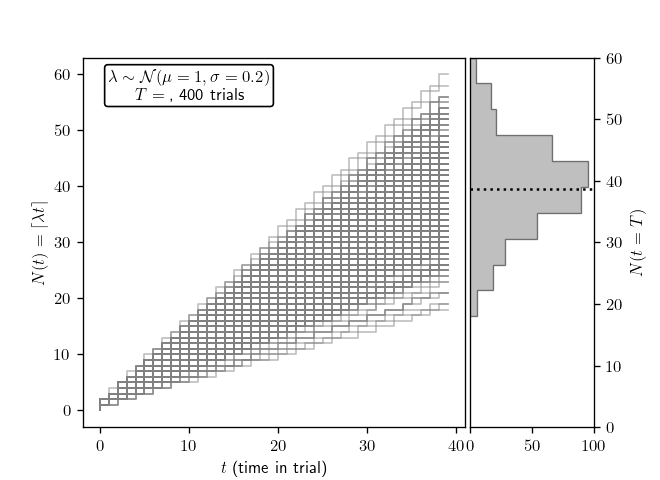
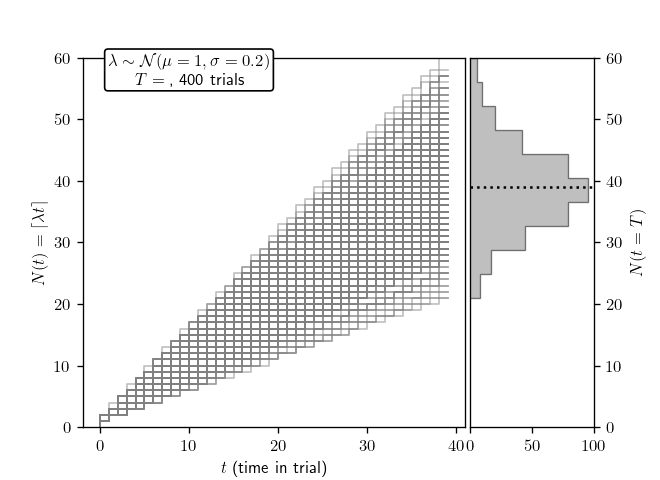
Merge branch 'master' of https://github.com/jealcalat/LeT
# Conflicts:
#	let.py

diff --git a/let.py b/let.py
@@ -13,7 +13,8 @@ import matplotlib.pyplot as plt
 import matplotlib.gridspec as gridspec
 from matplotlib import rc
 rc('text', usetex=True)
-rc('figure', figsize = (5.5, 4))
+rc('figure', figsize=(5.5, 4))
+rc('axes', ymargin=0)
 
 """
 Simulate N(t) = ceiling(lambda * t), with lambda normally distributed. In "Learning to time: a perspective", 
@@ -22,10 +23,16 @@ Appendix, they simulate two 'walks' with lambda = {0.8,1.2} sampled from N(1,0.2
 
 
 def n_t(t, mean, sd):
+    """
+    lambda admit just positive values
+    """
 
     lmbd = np.random.normal(mean, sd, 1)
     vec_time = np.arange(t)
     nt_iter = np.zeros(t)
+
+    while lmbd < 0:
+        lmbd = np.random.normal(mean, sd, 1)
 
     for j in vec_time:
         nt_iter[j] = np.ceil(lmbd*j)
@@ -47,6 +54,7 @@ for jj in np.arange(trials):
     Nt = n_t(t, mean, sd)
     trial_rf[jj] = Nt[-1]
     ax1.step(time,Nt, c = 'grey', lw = 1, alpha = 0.5)
+    ax1.scatter(time[-1], Nt[-1], c = 'black', s =  10, alpha = 0.5)
 
 ax1.text(10, np.max(trial_rf) - 2,
          r'$\lambda \sim \mathcal{{N}}(\mu = 1, \sigma = {{{}}})$'.format(sd) + "\n"
@@ -62,7 +70,7 @@ ax2.set_ylim(0,np.max(trial_rf))
 ax2.yaxis.set_label_position("right")
 ax2.axhline(y = np.mean(trial_rf), color = 'black', linestyle = ":")
 ax2.set_ylabel(r'$N(t = T)$')
-plt.savefig('nt_let.png', dpi = 120)
+#  plt.savefig('nt_let.png', dpi = 120)
 plt.show()
 
 

diff --git a/Readme.md b/Readme.md
@@ -2,6 +2,14 @@
 
 This is a work in progress
 
+This simulation uses Python 3.
+
+## States dynamics
+
+$$\lambda \sim \mathcal{N} (\mu, \sigma)$$
+
+The $N$ states are activated serially. There are no upper bound of the states that can be activated. 
+
 ## References
 
 de Carvalho, M. P., Machado, A., & Vasconcelos, M. (2016). Animal timing: a synthetic approach. *Animal cognition*, *19*(4), 707-732.
